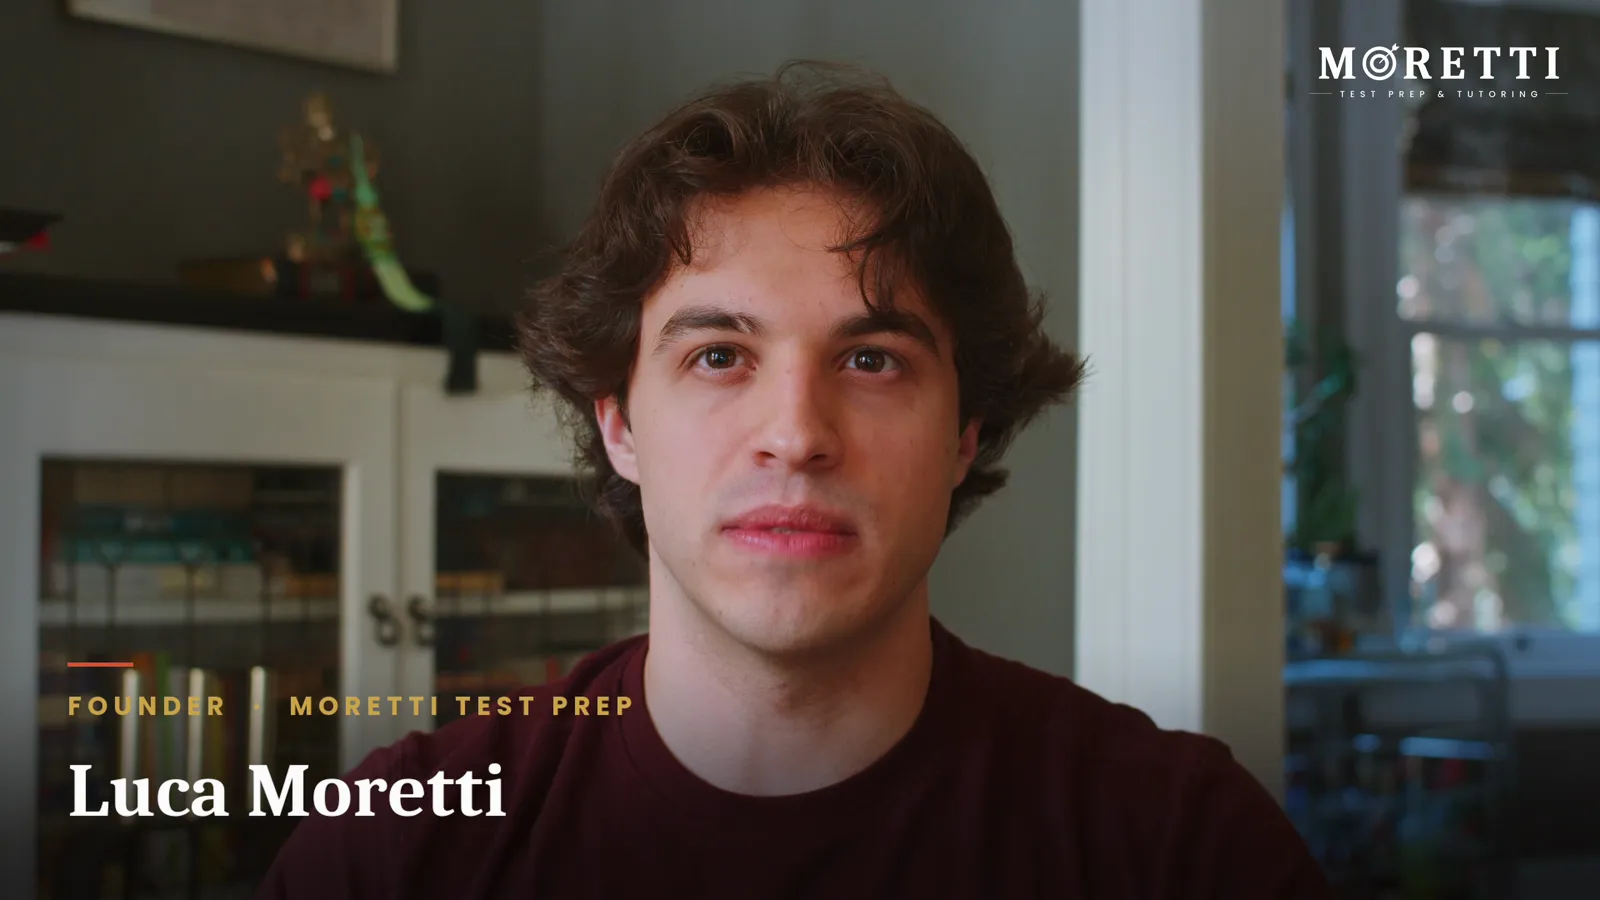
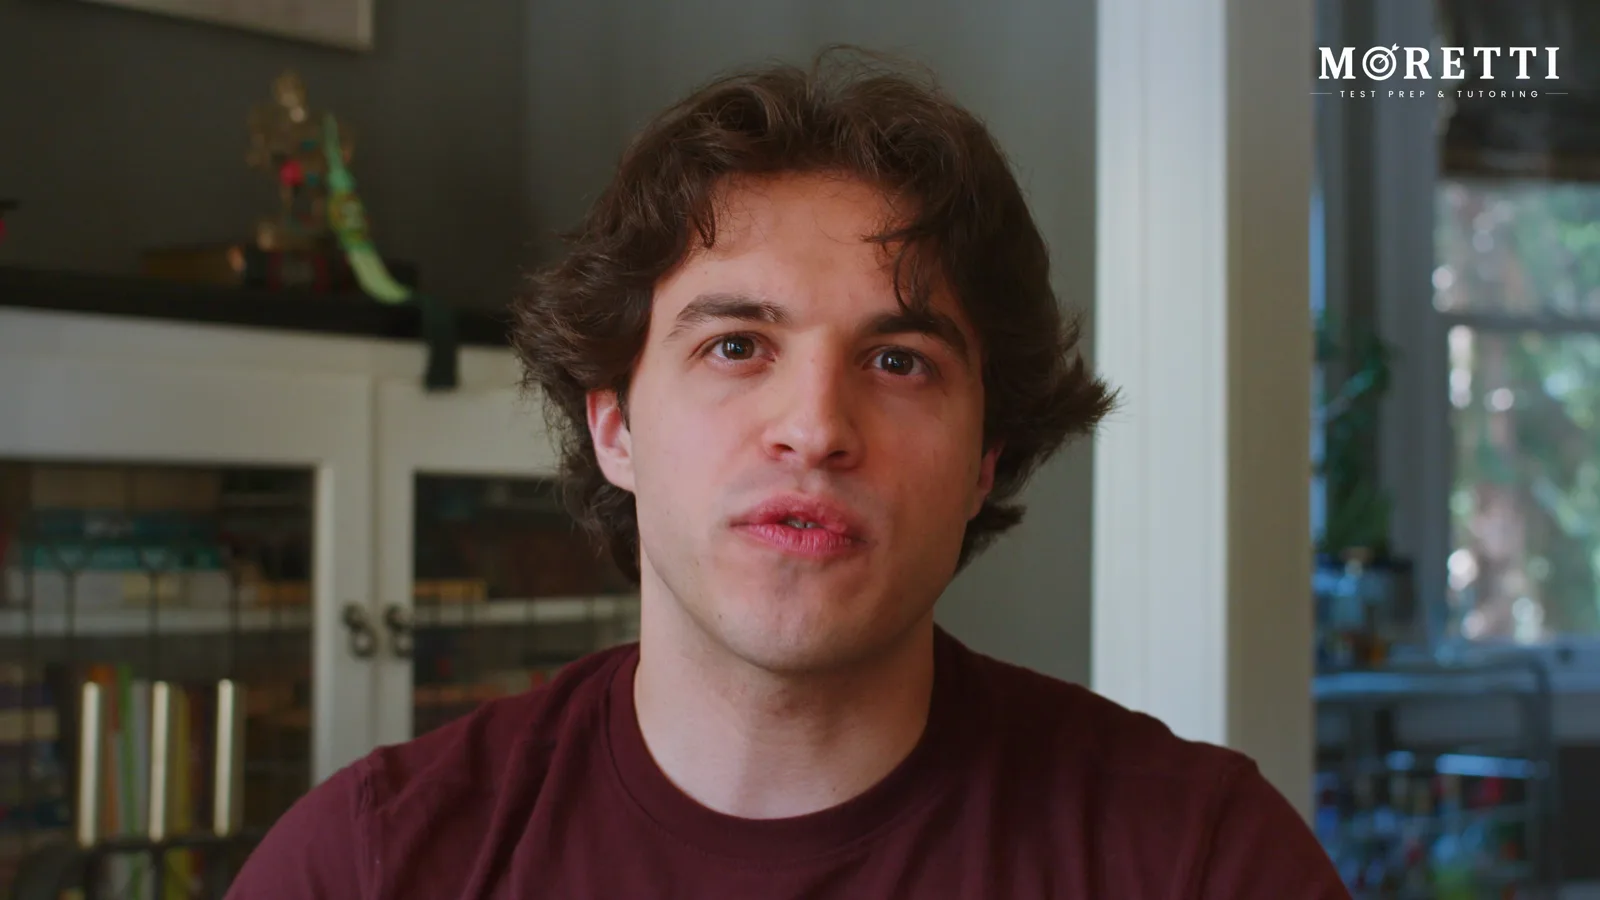
SAT intro video: warmer poster frame

diff --git a/prep-course.html b/prep-course.html
@@ -136,7 +136,7 @@ p{margin:0}
 /* keeps playing as you scroll (Luca, 2026-10-27): once the frame scrolls away mid-play, the video floats in the
    bottom-right corner and slides back into the frame when you scroll up to it. The x closes it. */
 .meet-x{display:none}
-.meet-f.dock{background:#0C0A09 url(img/sat/luca-intro-poster.webp) center/cover}
+.meet-f.dock{background:#0C0A09 url(img/sat/luca-intro-poster.webp?v=2) center/cover}
 .meet-f.dock video{position:fixed;z-index:70;right:20px;bottom:20px;width:min(380px,calc(100vw - 32px));height:auto;aspect-ratio:16/9;border-radius:14px;box-shadow:0 24px 60px -18px rgba(12,10,9,.6),0 0 0 1px rgba(255,255,255,.1);animation:meetIn .45s cubic-bezier(.16,1,.3,1)}
 .meet-f.dock .meet-x{display:flex;position:fixed;z-index:71;right:12px;bottom:calc(20px + min(380px,calc(100vw - 32px))*9/16 - 16px);width:32px;height:32px;border-radius:50%;border:0;background:#111;color:#fff;font-size:18px;line-height:1;align-items:center;justify-content:center;cursor:pointer;box-shadow:0 4px 14px rgba(0,0,0,.35)}
 @keyframes meetIn{from{opacity:0;transform:translate3d(0,24px,0) scale(.94)}}
@@ -1559,7 +1559,7 @@ nav.is-red .navlinks a{color:rgba(255,255,255,.85)}nav.is-red .navlinks a.on{col
 
 <section class="meet" id="meet" aria-label="Meet Luca, a 75-second introduction">
   <div class="meet-w"><div class="meet-f" id="meetf">
-    <video id="meetv" preload="none" playsinline poster="img/sat/luca-intro-poster.webp">
+    <video id="meetv" preload="none" playsinline poster="img/sat/luca-intro-poster.webp?v=2">
       <source src="img/sat/luca-intro-720.mp4" type="video/mp4" media="(max-width: 760px)">
       <source src="img/sat/luca-intro-1080.mp4" type="video/mp4">
       <track kind="captions" src="img/sat/luca-intro.vtt" srclang="en" label="English">
